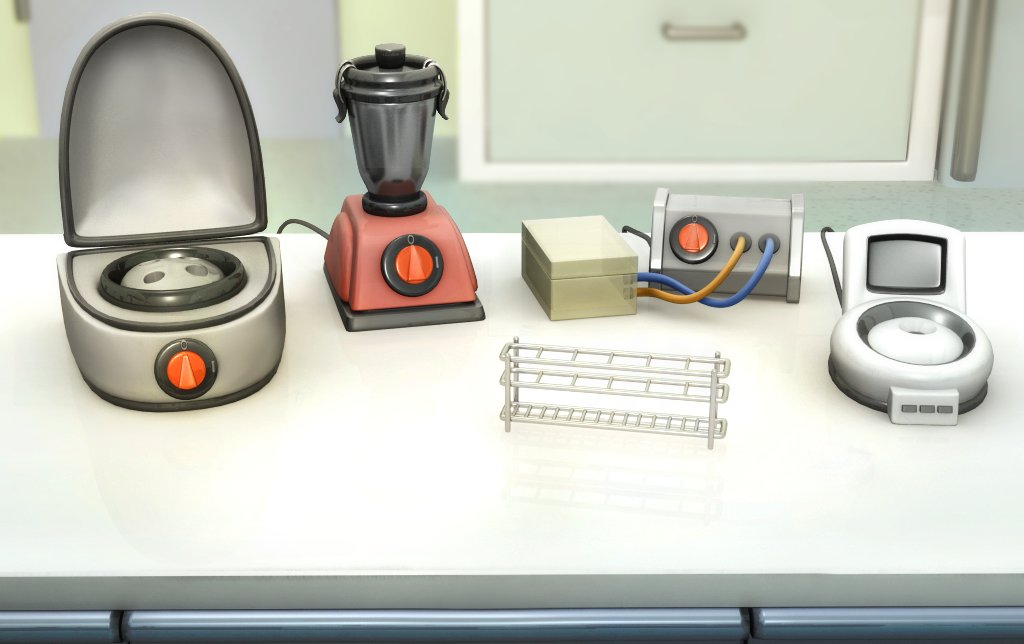
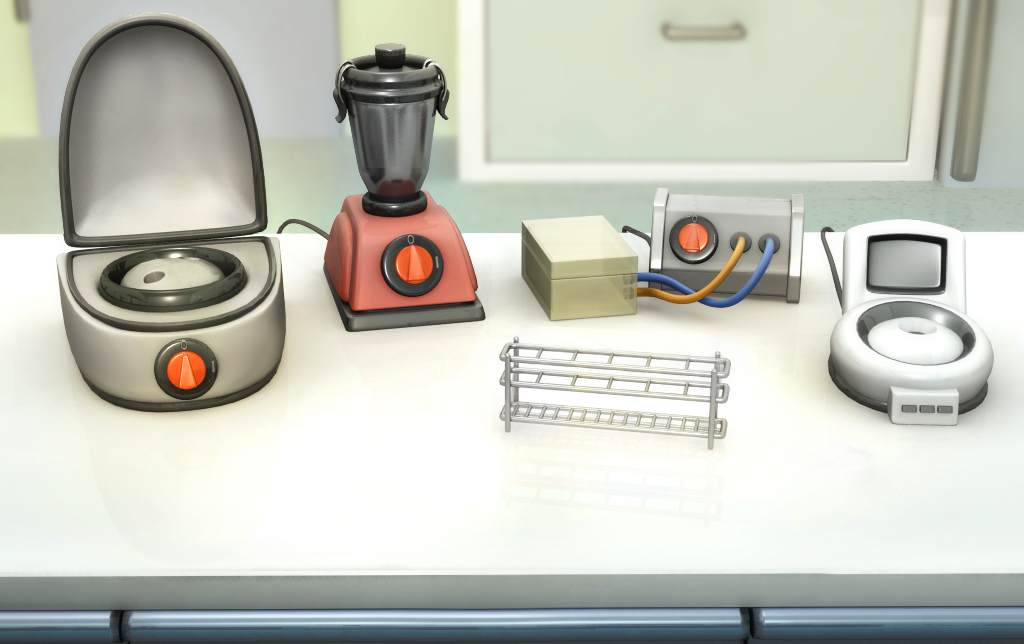
add tube graphics for centrifuge

Changed region(s): [[0.4688, 0.528, 0.7188, 0.6832], [0.1875, 0.4037, 0.2188, 0.4348]]

diff --git a/app/js/controller/Centrifuge.ts b/app/js/controller/Centrifuge.ts
@@ -29,19 +29,14 @@ class CentrifugeController extends CompositeContainerController {
     validateBalance() {
         var slot0 = this.compContainer.get(0);
         var slot1 = this.compContainer.get(1);
-        var slot2 = this.compContainer.get(2);
-        var slot3 = this.compContainer.get(3);
 
-        // Are tubes in valid positions
-        if (!slot0 !== !slot2 || !slot1 !== !slot3)
+
+        // Are both slots either full or empty
+        if ((slot0 && !slot1) || (!slot0 && slot1))
             return false;
 
-        // Is slot0 and slot2 both full or empty
-        if (slot0 && slot2 && (!slot0.isEmpty() !== !slot2.isEmpty()))
-            return false;
-
-        // Is slot1 and slot3 both full or empty
-        if (slot1 && slot3 && (!slot1.isEmpty() !== !slot3.isEmpty()))
+        // Are both tubes either full or empty
+        if (slot0 && slot1 && (slot0.isEmpty() !== slot1.isEmpty()))
             return false;
 
         return true;

diff --git a/app/css/view/_worktable2.scss b/app/css/view/_worktable2.scss
@@ -94,14 +94,19 @@
     }
 
     .centrifuge-testtubeholder {
-        @include tuberack(110px, 250px);
-        border: 1px solid black;
+        @include tuberack(115px, 240px);
 
-        .slot0, .slot1, .slot2, .slot3 {
-            background-color: #FFF;
-            opacity: 0.5;
-            border: 1px solid red;
+        .slot0, .slot1 {
+            width: 55px;
+            height: 65px;
+
+            img {
+                position: relative;
+            }
         }
+
+        .slot0 img { bottom: 14px; left: 16px; }
+        .slot1 img { bottom: 15px; right: 1px; }
     }
 
     .centrifuge-btn {

diff --git a/app/js/model/Centrifuge.ts b/app/js/model/Centrifuge.ts
@@ -4,16 +4,12 @@ import CompositeContainerModel = require('model/CompositeContainer');
 
 import ContainerType = require('model/type/Container');
 
-// The slots are modelled in a circle, so for instance: slot0 = top,
-// slot1 = right, slot2 = bottom, slot3 = left, or something to that
-// effect.
-
 class CentrifugeModel extends CompositeContainerModel {
 
     public status: KnockoutObservable<boolean>;
 
     constructor() {
-        super(4, ContainerType.TUBE, ContainerType.HEATER);
+        super(2, ContainerType.TUBE, ContainerType.CENTRIFUGE);
 
         this.status = ko.observable(false);
 

diff --git a/app/js/controller/CompositeContainer.ts b/app/js/controller/CompositeContainer.ts
@@ -82,6 +82,11 @@ class CompositeContainerController {
             this.imageGetter = ImageHelper.odMachineTubeImage;
             this.accepter = DragHelper.acceptTube;
             break;
+        
+        case ContainerType.CENTRIFUGE:
+            this.imageGetter = ImageHelper.centrifugeTubeImage;
+            this.accepter = DragHelper.acceptTube;
+            break;
 
         case ContainerType.WORK3_TUBE_RACK:
             this.imageGetter = ImageHelper.work3TubeImage;

diff --git a/app/js/utils/ImageHelper.ts b/app/js/utils/ImageHelper.ts
@@ -41,6 +41,7 @@ class ImageHelper {
     static sidegroupEmptySlot = ImageHelper.single('scaffold_R');
 
     static odMachineTubeImage = _.constant(ImageHelper.img('work2_od-on.png'));
+    static centrifugeTubeImage = ImageHelper.single('work2_centrifuge-slot');
     
     static work3TubeImage = ImageHelper.emptyFull('work3_tube');
     static pcrMachineTubeImage = ImageHelper.single('work3_pcr_tube');
